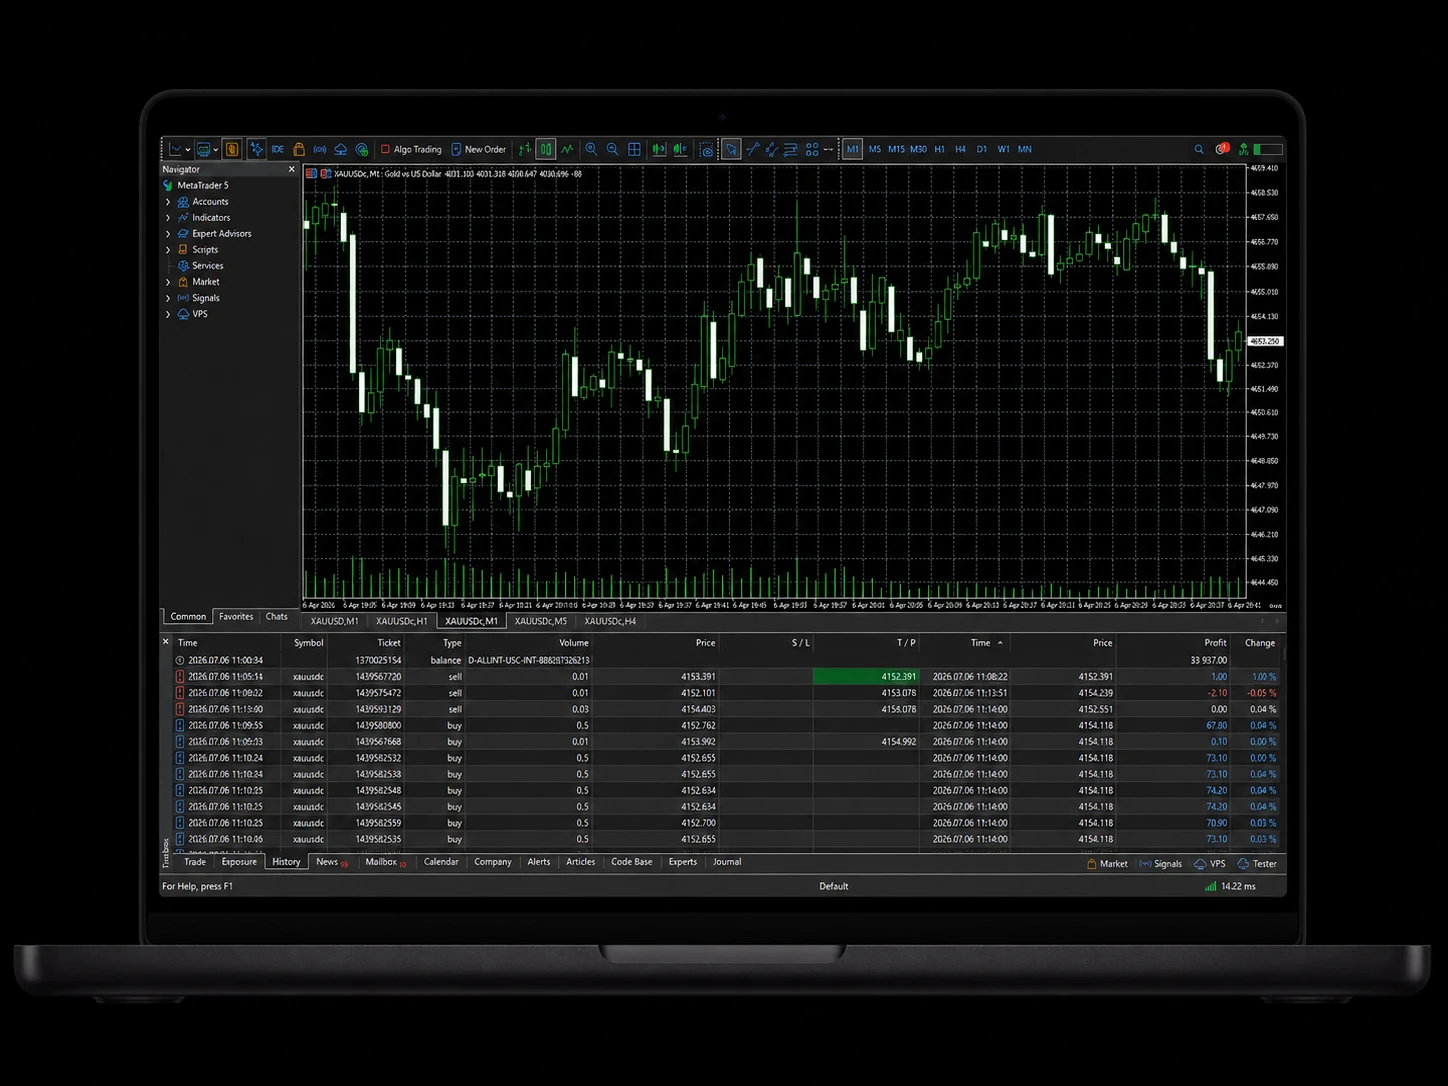
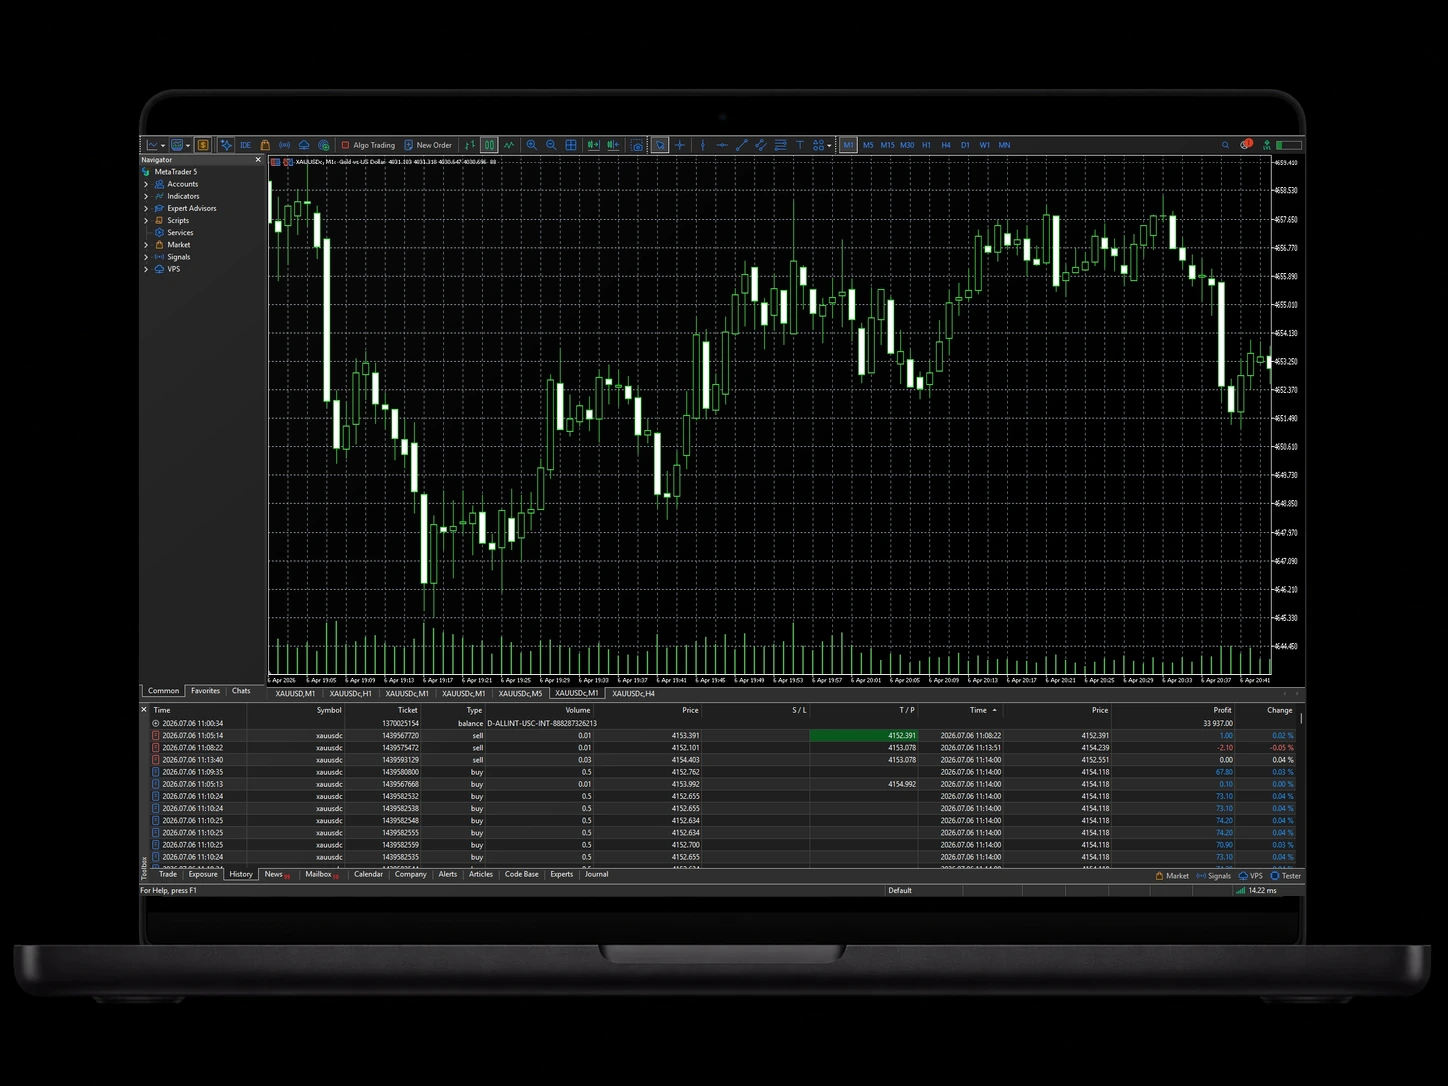
Put the sharp MT5 terminal on the laptop screen
The supplied capture is 1.94:1 but the render's screen is 1.53:1, so it goes
in as three bands: the toolbar, the navigator panel and the whole toolbox
(tabs, trade table, status bar) scale uniformly, and only the candle plot
takes the vertical stretch — grid, candles and price axis stretch together
so the labels stay on their gridlines. The bottom fade now starts at 83%,
below the screen, so the trade table and status bar stay fully opaque.

Changed region(s): [[0.0932, 0.1215, 0.9012, 0.8204]]

diff --git a/assets/css/styles.css b/assets/css/styles.css
@@ -6020,9 +6020,11 @@ html.is-animate [data-pt-drop] .pt-cty{opacity:0}
 }
 /* this render is front on, filling its frame on pure black, so lighten drops the
    ground entirely and the mask only needs to feather the lower corners */
+/* the fade starts below the screen (which ends at 83% of the render) so the
+   terminal stays fully opaque and only the laptop base feathers away */
 .mt-dl-img--mt5{
-  -webkit-mask-image:linear-gradient(180deg,#000 0%,#000 78%,rgba(0,0,0,0) 100%);
-  mask-image:linear-gradient(180deg,#000 0%,#000 78%,rgba(0,0,0,0) 100%);
+  -webkit-mask-image:linear-gradient(180deg,#000 0%,#000 83%,rgba(0,0,0,0) 100%);
+  mask-image:linear-gradient(180deg,#000 0%,#000 83%,rgba(0,0,0,0) 100%);
 }
 .mt-dl-stage:has(.mt-dl-img--mt5){max-width:min(1120px,96%)}
 .mt-dl-btns{display:flex;flex-wrap:wrap;justify-content:center;gap:14px;margin:10px auto 0}
